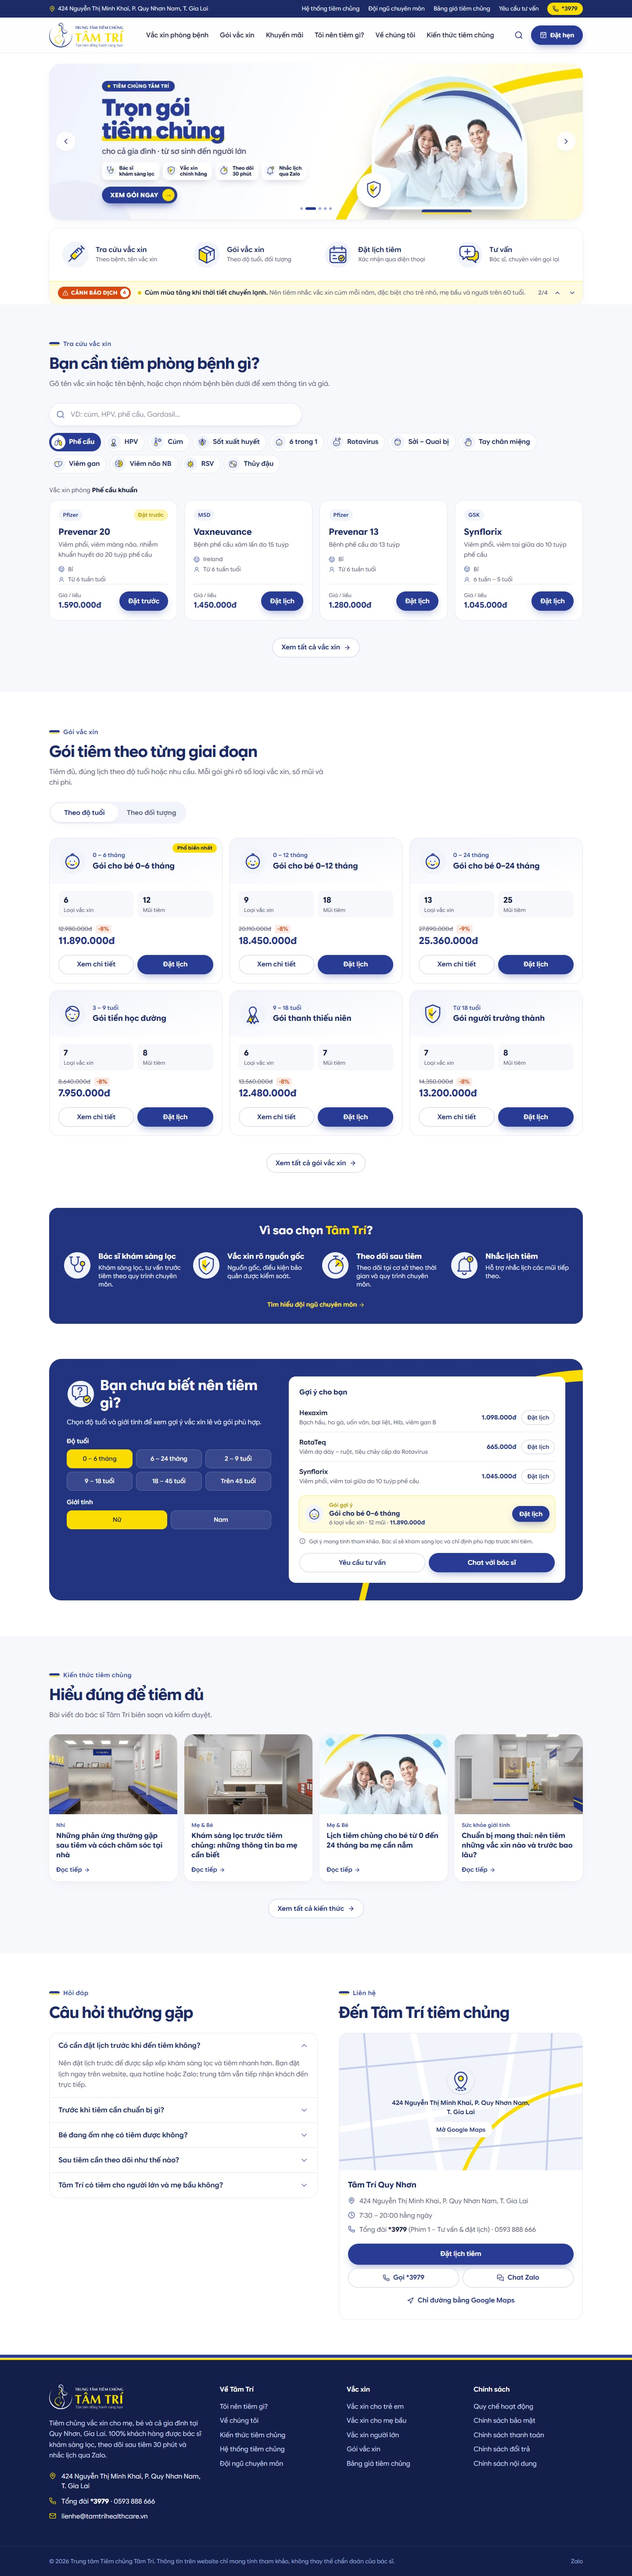
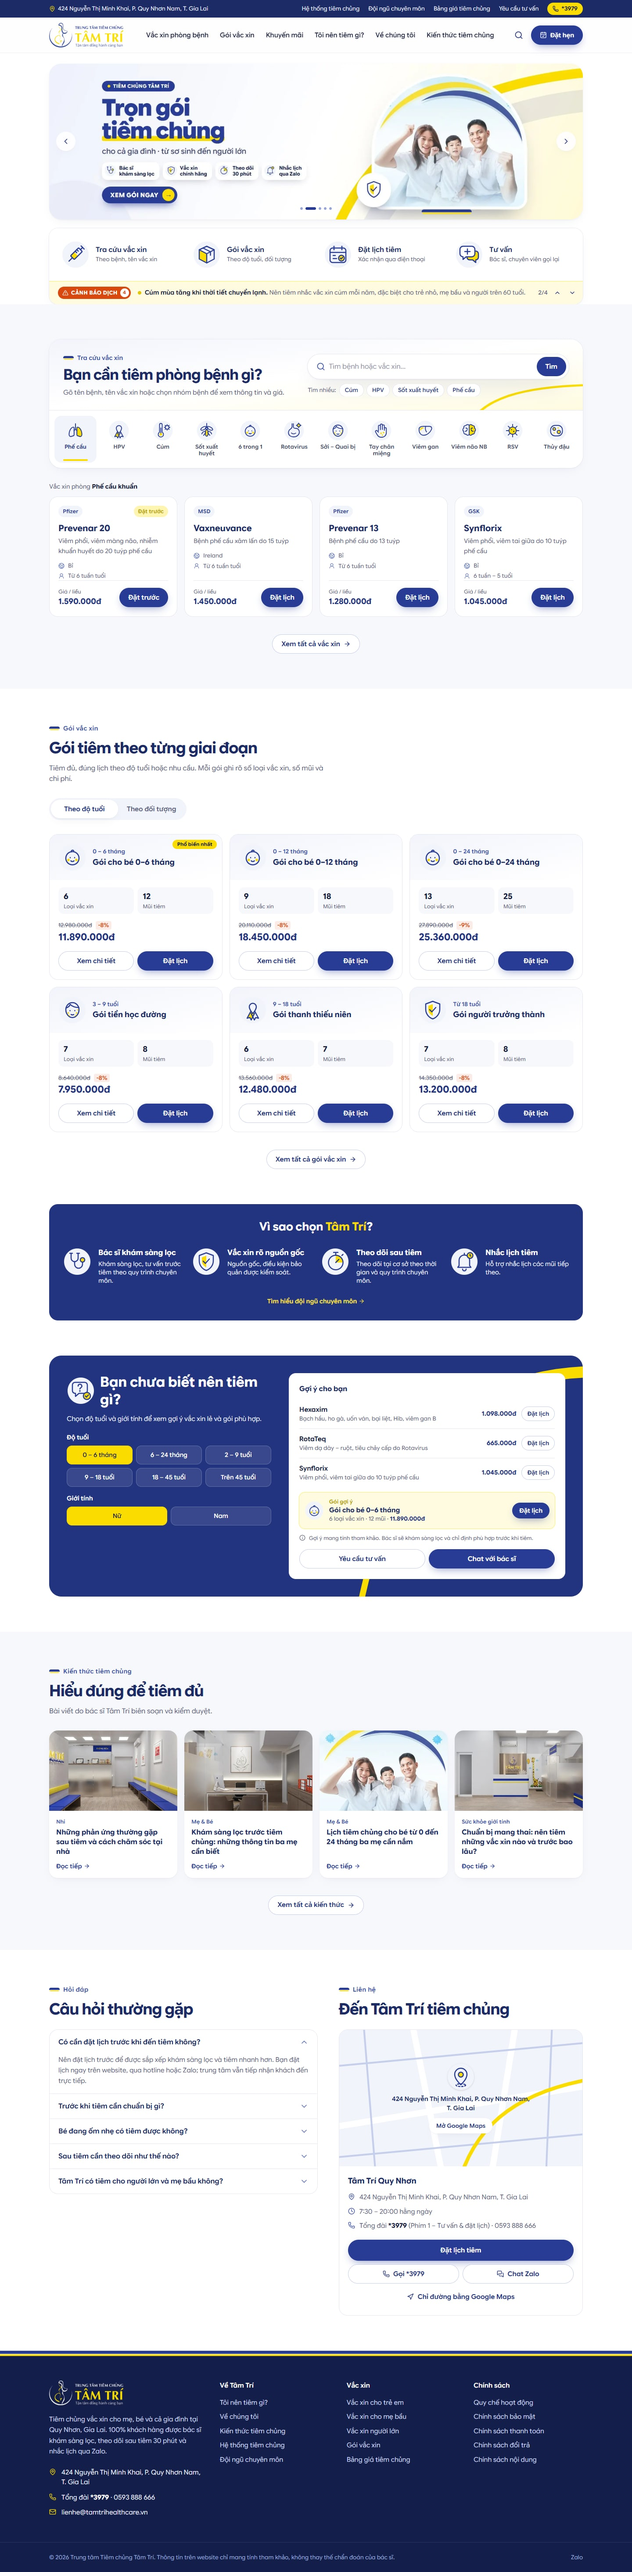
feat: thiết kế lại khung tra cứu vắc xin
- Tiêu đề và ô tìm kiếm (nút Tìm, gợi ý từ khóa) gộp trong một khung
- 12 nhóm bệnh thành một hàng ô icon, vuốt ngang trên mobile

diff --git a/src/components/home/vaccine-finder.tsx b/src/components/home/vaccine-finder.tsx
@@ -8,7 +8,6 @@ import { normalizeForSearch } from "@/lib/search";
 
 import { BrandIconByName } from "../icons/brand-icons";
 import { ButtonLink } from "../ui/button-link";
-import { SectionHeading } from "../ui/section-heading";
 import { VaccineCard } from "../vaccine/vaccine-card";
 
 type Props = {
@@ -17,6 +16,7 @@ type Props = {
 };
 
 const MAX_RESULTS = 8;
+const POPULAR_TERMS = ["Cúm", "HPV", "Sốt xuất huyết", "Phế cầu"];
 
 /**
  * "Tra cứu vắc xin": one place to find a vaccine, either by typing its name or
@@ -48,70 +48,105 @@ export function VaccineFinder({ groups, vaccines }: Props) {
   return (
     <section id="tra-cuu-vac-xin" className="scroll-mt-20 bg-canvas py-12 lg:scroll-mt-24 lg:py-20">
       <div className="container-page">
-        <SectionHeading
-          eyebrow="Tra cứu vắc xin"
-          title="Bạn cần tiêm phòng bệnh gì?"
-          description="Gõ tên vắc xin hoặc tên bệnh, hoặc chọn nhóm bệnh bên dưới để xem thông tin và giá."
-        />
+        {/* One search panel: title + search on top, the disease groups as a row of icon tiles below. */}
+        <div className="overflow-hidden rounded-[1.75rem] bg-white shadow-card ring-1 ring-line/70">
+          <div className="relative overflow-hidden bg-gradient-to-br from-brand-50 via-white to-sun-50 px-4 pt-6 pb-5 md:px-8 md:pt-8 md:pb-7">
+            <svg aria-hidden="true" viewBox="0 0 600 200" preserveAspectRatio="none" className="pointer-events-none absolute right-0 bottom-0 hidden h-1/2 w-1/4 lg:block">
+              <path d="M120 230C200 120 360 70 620 60" stroke="#FADC00" strokeWidth="12" fill="none" />
+            </svg>
 
-        <div className="mt-6 md:mt-8">
-          <label className="relative block md:max-w-xl">
-            <span className="sr-only">Tìm vắc xin</span>
-            <Search className="pointer-events-none absolute top-1/2 left-4 size-5 -translate-y-1/2 text-brand-400" />
-            <input
-              type="search"
-              value={query}
-              onChange={(event) => setQuery(event.target.value)}
-              placeholder="VD: cúm, HPV, phế cầu, Gardasil…"
-              className="h-13 w-full rounded-full border border-line bg-white pr-12 pl-12 text-[16px] shadow-card outline-none placeholder:text-muted/70 focus:border-brand-400 focus:ring-4 focus:ring-brand-100"
-            />
-            {query && (
-              <button
-                type="button"
-                onClick={() => setQuery("")}
-                aria-label="Xóa tìm kiếm"
-                className="absolute top-1/2 right-3 grid size-8 -translate-y-1/2 place-items-center rounded-full text-muted hover:bg-brand-50"
-              >
-                <X className="size-4" />
-              </button>
-            )}
-          </label>
-        </div>
+            <div className="relative grid gap-5 lg:grid-cols-[1fr_1.15fr] lg:items-center lg:gap-10">
+              <div>
+                <p className="flex items-center gap-2 text-sm font-semibold text-brand-500">
+                  <span className="brand-stripe inline-block h-2 w-6 rounded-full" />
+                  Tra cứu vắc xin
+                </p>
+                <h2 className="mt-2 text-[24px] leading-tight font-bold tracking-tight text-balance text-brand-800 md:text-[34px]">Bạn cần tiêm phòng bệnh gì?</h2>
+                <p className="mt-2 hidden text-[15px] text-muted md:block">Gõ tên bệnh, tên vắc xin hoặc chọn nhóm bệnh để xem thông tin và giá.</p>
+              </div>
 
-        <div
-          role="tablist"
-          aria-label="Nhóm bệnh"
-          className={`no-scrollbar -mx-4 mt-4 flex gap-2 overflow-x-auto px-4 pb-1 md:mx-0 md:flex-wrap md:px-0 ${term ? "opacity-50" : ""}`}
-        >
-          {groups.map((group) => {
-            const selected = !term && group.slug === active.slug;
-            return (
-              <button
-                key={group.slug}
-                type="button"
-                role="tab"
-                aria-selected={selected}
-                aria-controls="vaccine-results"
-                onClick={() => {
-                  setQuery("");
-                  setActiveSlug(group.slug);
+              <form
+                role="search"
+                onSubmit={(event) => {
+                  event.preventDefault();
+                  document.getElementById("vaccine-results")?.scrollIntoView({ behavior: "smooth", block: "start" });
                 }}
-                className={`flex shrink-0 items-center gap-2 rounded-full border py-1 pr-3.5 pl-1 text-[14px] font-semibold transition md:text-[15px] ${
-                  selected
-                    ? "border-brand-600 bg-brand-600 text-white"
-                    : "border-line bg-white text-brand-800 hover:border-brand-300"
-                }`}
               >
-                <span className={`grid size-8 place-items-center rounded-full ${selected ? "bg-white" : "bg-brand-50"}`}>
-                  <BrandIconByName name={group.icon} bare className="size-7" />
-                </span>
-                {group.shortName}
-              </button>
-            );
-          })}
+                <div className="flex h-14 items-center gap-2 rounded-full bg-white pr-1.5 pl-5 shadow-lift ring-1 ring-line focus-within:ring-2 focus-within:ring-brand-400">
+                  <Search className="size-5 shrink-0 text-brand-500" />
+                  <label className="min-w-0 flex-1">
+                    <span className="sr-only">Tìm vắc xin</span>
+                    <input
+                      type="search"
+                      value={query}
+                      onChange={(event) => setQuery(event.target.value)}
+                      placeholder="Tìm bệnh hoặc vắc xin…"
+                      className="h-12 w-full bg-transparent text-[16px] outline-none placeholder:text-muted/70 [&::-webkit-search-cancel-button]:hidden"
+                    />
+                  </label>
+                  {query && (
+                    <button
+                      type="button"
+                      onClick={() => setQuery("")}
+                      aria-label="Xóa tìm kiếm"
+                      className="grid size-9 shrink-0 place-items-center rounded-full text-muted hover:bg-brand-50"
+                    >
+                      <X className="size-4" />
+                    </button>
+                  )}
+                  <button type="submit" className="h-11 shrink-0 rounded-full bg-brand-600 px-5 text-[15px] font-semibold text-white transition hover:bg-brand-700">
+                    Tìm
+                  </button>
+                </div>
+                <div className="no-scrollbar -mx-4 mt-3 flex items-center gap-2 overflow-x-auto px-4 text-[13px] md:mx-0 md:flex-wrap md:px-0">
+                  <span className="shrink-0 text-muted">Tìm nhiều:</span>
+                  {POPULAR_TERMS.map((popular) => (
+                    <button
+                      key={popular}
+                      type="button"
+                      onClick={() => setQuery(popular)}
+                      className="shrink-0 rounded-full bg-white px-3 py-1 font-medium text-brand-700 ring-1 ring-line transition hover:ring-brand-300"
+                    >
+                      {popular}
+                    </button>
+                  ))}
+                </div>
+              </form>
+            </div>
+          </div>
+
+          <div
+            role="tablist"
+            aria-label="Nhóm bệnh"
+            className="no-scrollbar flex gap-1 overflow-x-auto border-t border-line p-2 md:p-3 lg:grid lg:grid-cols-12 lg:overflow-visible"
+          >
+            {groups.map((group) => {
+              const selected = !term && group.slug === active.slug;
+              return (
+                <button
+                  key={group.slug}
+                  type="button"
+                  role="tab"
+                  aria-selected={selected}
+                  aria-controls="vaccine-results"
+                  onClick={() => {
+                    setQuery("");
+                    setActiveSlug(group.slug);
+                  }}
+                  className={`relative flex w-[23%] shrink-0 flex-col items-center gap-1.5 rounded-2xl px-1 pt-2.5 pb-3 text-center transition sm:w-[15%] lg:w-auto ${
+                    selected ? "bg-brand-50" : "hover:bg-canvas"
+                  }`}
+                >
+                  <BrandIconByName name={group.icon} className={`size-12 transition ${selected ? "scale-105" : ""}`} />
+                  <span className={`text-[12.5px] leading-tight font-semibold ${selected ? "text-brand-700" : "text-ink/80"}`}>{group.shortName}</span>
+                  {selected && <span className="absolute inset-x-5 bottom-1 h-1 rounded-full bg-sun-400" />}
+                </button>
+              );
+            })}
+          </div>
         </div>
 
-        <div id="vaccine-results" role="tabpanel" aria-live="polite" className="mt-5 md:mt-6">
+        <div id="vaccine-results" role="tabpanel" aria-live="polite" className="mt-6 scroll-mt-24 md:mt-8">
           <p className="mb-3 text-[14px] text-muted">
             {term ? (
               <>
